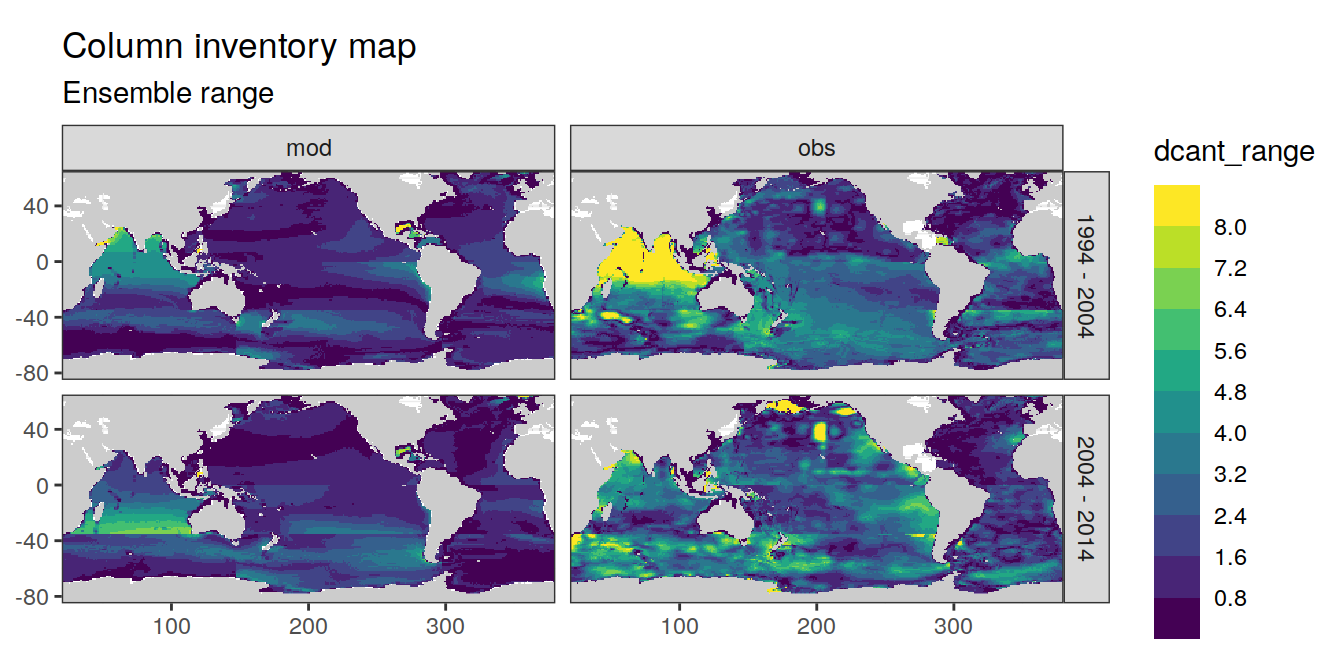
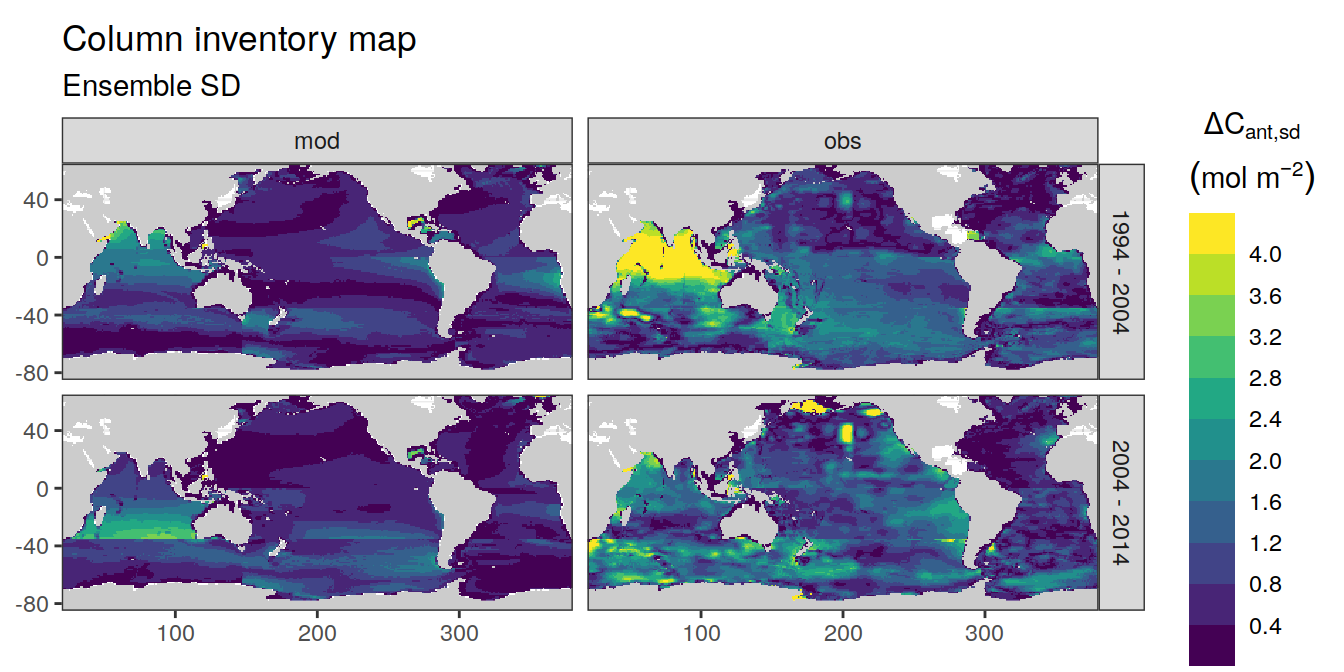
Build site.

diff --git a/docs/column_inventories.html b/docs/column_inventories.html
@@ -548,16 +548,16 @@ This reproducible <a href="http://rmarkdown.rstudio.com">R Markdown</a> analysis
 <div class="panel panel-default">
 <div class="panel-heading">
 <p class="panel-title">
-<a data-toggle="collapse" data-parent="#workflowr-checks" href="#strongRepositoryversionstrongahrefhttpsgithubcomjensdanielmuelleremlrobsanalysistree51e22f659cb213b5cb35661c9f25b14707287deatargetblank51e22f6a"> <span class="glyphicon glyphicon-ok text-success" aria-hidden="true"></span> <strong>Repository version:</strong> <a href="https://github.com/jens-daniel-mueller/emlr_obs_analysis/tree/51e22f659cb213b5cb35661c9f25b14707287dea" target="_blank">51e22f6</a> </a>
+<a data-toggle="collapse" data-parent="#workflowr-checks" href="#strongRepositoryversionstrongahrefhttpsgithubcomjensdanielmuelleremlrobsanalysistreed298b242fe223bccf40a35890e27525b3b74a5batargetblankd298b24a"> <span class="glyphicon glyphicon-ok text-success" aria-hidden="true"></span> <strong>Repository version:</strong> <a href="https://github.com/jens-daniel-mueller/emlr_obs_analysis/tree/d298b242fe223bccf40a35890e27525b3b74a5ba" target="_blank">d298b24</a> </a>
 </p>
 </div>
[2 lines of base64/hex data omitted]
 <div class="panel-body">
 <p>
 Great! You are using Git for version control. Tracking code development and connecting the code version to the results is critical for reproducibility.
 </p>
 <p>
-The results in this page were generated with repository version <a href="https://github.com/jens-daniel-mueller/emlr_obs_analysis/tree/51e22f659cb213b5cb35661c9f25b14707287dea" target="_blank">51e22f6</a>. See the <em>Past versions</em> tab to see a history of the changes made to the R Markdown and HTML files.
+The results in this page were generated with repository version <a href="https://github.com/jens-daniel-mueller/emlr_obs_analysis/tree/d298b242fe223bccf40a35890e27525b3b74a5ba" target="_blank">d298b24</a>. See the <em>Past versions</em> tab to see a history of the changes made to the R Markdown and HTML files.
 </p>
 <p>
 Note that you need to be careful to ensure that all relevant files for the analysis have been committed to Git prior to generating the results (you can use <code>wflow_publish</code> or <code>wflow_git_commit</code>). workflowr only checks the R Markdown file, but you know if there are other scripts or data files that it depends on. Below is the status of the Git repository when the results were generated:
@@ -614,6 +614,40 @@ Message
 </tr>
 </thead>
 <tbody>
+<tr>
+<td>
+Rmd
+</td>
+<td>
+<a href="https://github.com/jens-daniel-mueller/emlr_obs_analysis/blob/d298b242fe223bccf40a35890e27525b3b74a5ba/analysis/column_inventories.Rmd" target="_blank">d298b24</a>
+</td>
+<td>
+jens-daniel-mueller
+</td>
+<td>
+2021-07-26
+</td>
+<td>
+added ensemble analysis
+</td>
+</tr>
+<tr>
+<td>
+html
+</td>
+<td>
+<a href="https://rawcdn.githack.com/jens-daniel-mueller/emlr_obs_analysis/7a1b3581f3fea871dfffa32b062c9952cad77fdb/docs/column_inventories.html" target="_blank">7a1b358</a>
+</td>
+<td>
+jens-daniel-mueller
+</td>
+<td>
+2021-07-26
+</td>
+<td>
+Build site.
+</td>
+</tr>
 <tr>
 <td>
 Rmd
@@ -1634,7 +1668,7 @@ jens-daniel-mueller
 <pre class="r"><code>dcant_inv_ensemble_bias &lt;- full_join(
   dcant_inv_ensemble %&gt;%
     filter(data_source == &quot;mod&quot;) %&gt;% 
-    select(lat, lon, period, dcant_mean),
+    select(lat, lon, period, dcant_mean, dcant_sd),
   dcant_inv_all %&gt;%
     filter(data_source == &quot;mod_truth&quot;,
            MLR_basins == &quot;2&quot;) %&gt;% 
@@ -1650,14 +1684,51 @@ dcant_inv_ensemble_bias %&gt;%
                  subtitle_text = &quot;Ensemble mean - mod_truth&quot;) +
   facet_grid(. ~ period)</code></pre>
 <p><img src="figure/column_inventories.Rmd/ensemble_mean_bias-1.png" width="672" style="display: block; margin: auto;" /></p>
+<p>
+<button type="button" class="btn btn-default btn-xs btn-workflowr btn-workflowr-fig" data-toggle="collapse" data-target="#fig-ensemble_mean_bias-1">
+Past versions of ensemble_mean_bias-1.png
+</button>
+</p>
+<div id="fig-ensemble_mean_bias-1" class="collapse">
+<div class="table-responsive">
+<table class="table table-condensed table-hover">
+<thead>
+<tr>
+<th>
+Version
+</th>
+<th>
+Author
+</th>
+<th>
+Date
+</th>
+</tr>
+</thead>
+<tbody>
+<tr>
+<td>
+<a href="https://github.com/jens-daniel-mueller/emlr_obs_analysis/blob/7a1b3581f3fea871dfffa32b062c9952cad77fdb/docs/figure/column_inventories.Rmd/ensemble_mean_bias-1.png" target="_blank">7a1b358</a>
+</td>
+<td>
+jens-daniel-mueller
+</td>
+<td>
+2021-07-26
+</td>
+</tr>
+</tbody>
+</table>
+</div>
+</div>
 </div>
 <div id="standard-deviation" class="section level2" number="4.3">
 <h2 number="4.3"><span class="header-section-number">4.3</span> Standard deviation</h2>
 <pre class="r"><code>p_map_cant_inv(
   df = dcant_inv_ensemble,
-  var = &quot;dcant_range&quot;,
-  breaks = c(seq(0,8,0.8), Inf),
-  subtitle_text = paste(&quot;Ensemble range&quot;)
+  var = &quot;dcant_sd&quot;,
+  breaks = c(seq(0,4,0.4), Inf),
+  subtitle_text = paste(&quot;Ensemble SD&quot;)
 ) +
   facet_grid(period ~ data_source)</code></pre>
 <p><img src="figure/column_inventories.Rmd/ensemble_sd-1.png" width="672" style="display: block; margin: auto;" /></p>
@@ -1699,8 +1770,36 @@ jens-daniel-mueller
 </div>
 </div>
 </div>
-<div id="range" class="section level2" number="4.4">
-<h2 number="4.4"><span class="header-section-number">4.4</span> Range</h2>
+<div id="sd-vs-bias" class="section level2" number="4.4">
+<h2 number="4.4"><span class="header-section-number">4.4</span> SD vs bias</h2>
+<pre class="r"><code>dcant_inv_ensemble_bias %&gt;% 
+  ggplot(aes(dcant_mean_bias, dcant_sd)) +
+  geom_bin2d() +
+  scale_fill_viridis_c() +
+  facet_grid(. ~ period)</code></pre>
+<p><img src="figure/column_inventories.Rmd/ensemble_sd_vs_bias-1.png" width="672" style="display: block; margin: auto;" /></p>
+<pre class="r"><code>dcant_inv_ensemble_bias %&gt;% 
+  ggplot(aes(dcant_mean_bias)) +
+  geom_histogram() +
+  facet_grid(. ~ period)</code></pre>
+<p><img src="figure/column_inventories.Rmd/ensemble_sd_vs_bias-2.png" width="672" style="display: block; margin: auto;" /></p>
+<pre class="r"><code>dcant_inv_ensemble_bias %&gt;% 
+  ggplot(aes(dcant_mean)) +
+  geom_histogram() +
+  facet_grid(. ~ period)</code></pre>
+<p><img src="figure/column_inventories.Rmd/ensemble_sd_vs_bias-3.png" width="672" style="display: block; margin: auto;" /></p>
+<pre class="r"><code>dcant_inv_ensemble_bias %&gt;% 
+  select(dcant_mean, dcant_mean_bias, period) %&gt;% 
+  pivot_longer(dcant_mean:dcant_mean_bias,
+               names_to = &quot;estimate&quot;,
+               values_to = &quot;value&quot;) %&gt;% 
+  ggplot(aes(value, col=estimate, linetype = period)) +
+  scale_color_brewer(palette = &quot;Set1&quot;) +
+  geom_density()</code></pre>
+<p><img src="figure/column_inventories.Rmd/ensemble_sd_vs_bias-4.png" width="672" style="display: block; margin: auto;" /></p>
+</div>
+<div id="range" class="section level2" number="4.5">
+<h2 number="4.5"><span class="header-section-number">4.5</span> Range</h2>
 <pre class="r"><code>p_map_cant_inv(
   df = dcant_inv_ensemble,
   var = &quot;dcant_range&quot;,
@@ -1773,9 +1872,83 @@ dcant_inv_all %&gt;%
   )</code></pre>
 <pre><code>[[1]]</code></pre>
 <p><img src="figure/column_inventories.Rmd/ensemble_deviation_from_mean-1.png" width="672" style="display: block; margin: auto;" /></p>
+<p>
+<button type="button" class="btn btn-default btn-xs btn-workflowr btn-workflowr-fig" data-toggle="collapse" data-target="#fig-ensemble_deviation_from_mean-1">
+Past versions of ensemble_deviation_from_mean-1.png
+</button>
+</p>
+<div id="fig-ensemble_deviation_from_mean-1" class="collapse">
+<div class="table-responsive">
+<table class="table table-condensed table-hover">
+<thead>
+<tr>
+<th>
+Version
+</th>
+<th>
+Author
+</th>
+<th>
+Date
+</th>
+</tr>
+</thead>
+<tbody>
+<tr>
+<td>
+<a href="https://github.com/jens-daniel-mueller/emlr_obs_analysis/blob/7a1b3581f3fea871dfffa32b062c9952cad77fdb/docs/figure/column_inventories.Rmd/ensemble_deviation_from_mean-1.png" target="_blank">7a1b358</a>
+</td>
+<td>
+jens-daniel-mueller
+</td>
+<td>
+2021-07-26
+</td>
+</tr>
+</tbody>
+</table>
+</div>
+</div>
 <pre><code>
 [[2]]</code></pre>
 <p><img src="figure/column_inventories.Rmd/ensemble_deviation_from_mean-2.png" width="672" style="display: block; margin: auto;" /></p>
+<p>
+<button type="button" class="btn btn-default btn-xs btn-workflowr btn-workflowr-fig" data-toggle="collapse" data-target="#fig-ensemble_deviation_from_mean-2">
+Past versions of ensemble_deviation_from_mean-2.png
+</button>
+</p>
+<div id="fig-ensemble_deviation_from_mean-2" class="collapse">
+<div class="table-responsive">
+<table class="table table-condensed table-hover">
+<thead>
+<tr>
+<th>
+Version
+</th>
+<th>
+Author
+</th>
+<th>
+Date
+</th>
+</tr>
+</thead>
+<tbody>
+<tr>
+<td>
+<a href="https://github.com/jens-daniel-mueller/emlr_obs_analysis/blob/7a1b3581f3fea871dfffa32b062c9952cad77fdb/docs/figure/column_inventories.Rmd/ensemble_deviation_from_mean-2.png" target="_blank">7a1b358</a>
+</td>
+<td>
+jens-daniel-mueller
+</td>
+<td>
+2021-07-26
+</td>
+</tr>
+</tbody>
+</table>
+</div>
+</div>
 <br>
 <p>
 <button type="button" class="btn btn-default btn-workflowr btn-workflowr-sessioninfo" data-toggle="collapse" data-target="#workflowr-sessioninfo" style="display: block;">
@@ -1811,31 +1984,31 @@ other attached packages:
 [17] workflowr_1.6.2
 
 loaded via a namespace (and not attached):
- [1] httr_1.4.2               viridisLite_0.3.0        jsonlite_1.7.1          
- [4] modelr_0.1.8             assertthat_0.2.1         blob_1.2.1              
- [7] cellranger_1.1.0         yaml_2.2.1               pillar_1.4.7            
-[10] backports_1.1.10         lattice_0.20-41          glue_1.4.2              
-[13] RcppEigen_0.3.3.7.0      digest_0.6.27            promises_1.1.1          
-[16] polyclip_1.10-0          checkmate_2.0.0          rvest_0.3.6             
-[19] colorspace_1.4-1         htmltools_0.5.0          httpuv_1.5.4            
-[22] Matrix_1.2-18            pkgconfig_2.0.3          broom_0.7.5             
-[25] seacarb_3.2.14           haven_2.3.1              scales_1.1.1            
-[28] tweenr_1.0.2             whisker_0.4              later_1.1.0.1           
-[31] git2r_0.27.1             generics_0.0.2           farver_2.0.3            
-[34] ellipsis_0.3.1           withr_2.3.0              cli_2.1.0               
-[37] magrittr_1.5             crayon_1.3.4             readxl_1.3.1            
-[40] evaluate_0.14            fs_1.5.0                 fansi_0.4.1             
-[43] MASS_7.3-53              xml2_1.3.2               RcppArmadillo_0.10.1.2.0
-[46] oce_1.2-0                tools_4.0.3              data.table_1.13.2       
-[49] hms_0.5.3                lifecycle_1.0.0          munsell_0.5.0           
-[52] reprex_0.3.0             gsw_1.0-5                compiler_4.0.3          
-[55] rlang_0.4.10             grid_4.0.3               rstudioapi_0.11         
-[58] labeling_0.4.2           rmarkdown_2.5            testthat_2.3.2          
-[61] gtable_0.3.0             DBI_1.1.0                R6_2.5.0                
-[64] lubridate_1.7.9          knitr_1.30               rprojroot_2.0.2         
-[67] stringi_1.5.3            parallel_4.0.3           Rcpp_1.0.5              
-[70] vctrs_0.3.5              dbplyr_1.4.4             tidyselect_1.1.0        
-[73] xfun_0.18               </code></pre>
+ [1] fs_1.5.0                 lubridate_1.7.9          gsw_1.0-5               
+ [4] RColorBrewer_1.1-2       httr_1.4.2               rprojroot_2.0.2         
+ [7] tools_4.0.3              backports_1.1.10         R6_2.5.0                
+[10] DBI_1.1.0                colorspace_1.4-1         withr_2.3.0             
+[13] tidyselect_1.1.0         compiler_4.0.3           git2r_0.27.1            
+[16] cli_2.1.0                rvest_0.3.6              xml2_1.3.2              
+[19] labeling_0.4.2           scales_1.1.1             checkmate_2.0.0         
+[22] digest_0.6.27            rmarkdown_2.5            oce_1.2-0               
+[25] pkgconfig_2.0.3          htmltools_0.5.0          dbplyr_1.4.4            
+[28] rlang_0.4.10             readxl_1.3.1             rstudioapi_0.11         
+[31] farver_2.0.3             generics_0.0.2           jsonlite_1.7.1          
+[34] magrittr_1.5             Matrix_1.2-18            Rcpp_1.0.5              
+[37] munsell_0.5.0            fansi_0.4.1              lifecycle_1.0.0         
+[40] stringi_1.5.3            whisker_0.4              yaml_2.2.1              
+[43] MASS_7.3-53              grid_4.0.3               blob_1.2.1              
+[46] parallel_4.0.3           promises_1.1.1           crayon_1.3.4            
+[49] lattice_0.20-41          haven_2.3.1              hms_0.5.3               
+[52] seacarb_3.2.14           knitr_1.30               pillar_1.4.7            
+[55] reprex_0.3.0             glue_1.4.2               evaluate_0.14           
+[58] RcppArmadillo_0.10.1.2.0 data.table_1.13.2        modelr_0.1.8            
+[61] vctrs_0.3.5              tweenr_1.0.2             httpuv_1.5.4            
+[64] testthat_2.3.2           cellranger_1.1.0         gtable_0.3.0            
+[67] polyclip_1.10-0          assertthat_0.2.1         xfun_0.18               
+[70] broom_0.7.5              RcppEigen_0.3.3.7.0      later_1.1.0.1           
+[73] viridisLite_0.3.0        ellipsis_0.3.1          </code></pre>
 </div>
 </div>
 </div>
